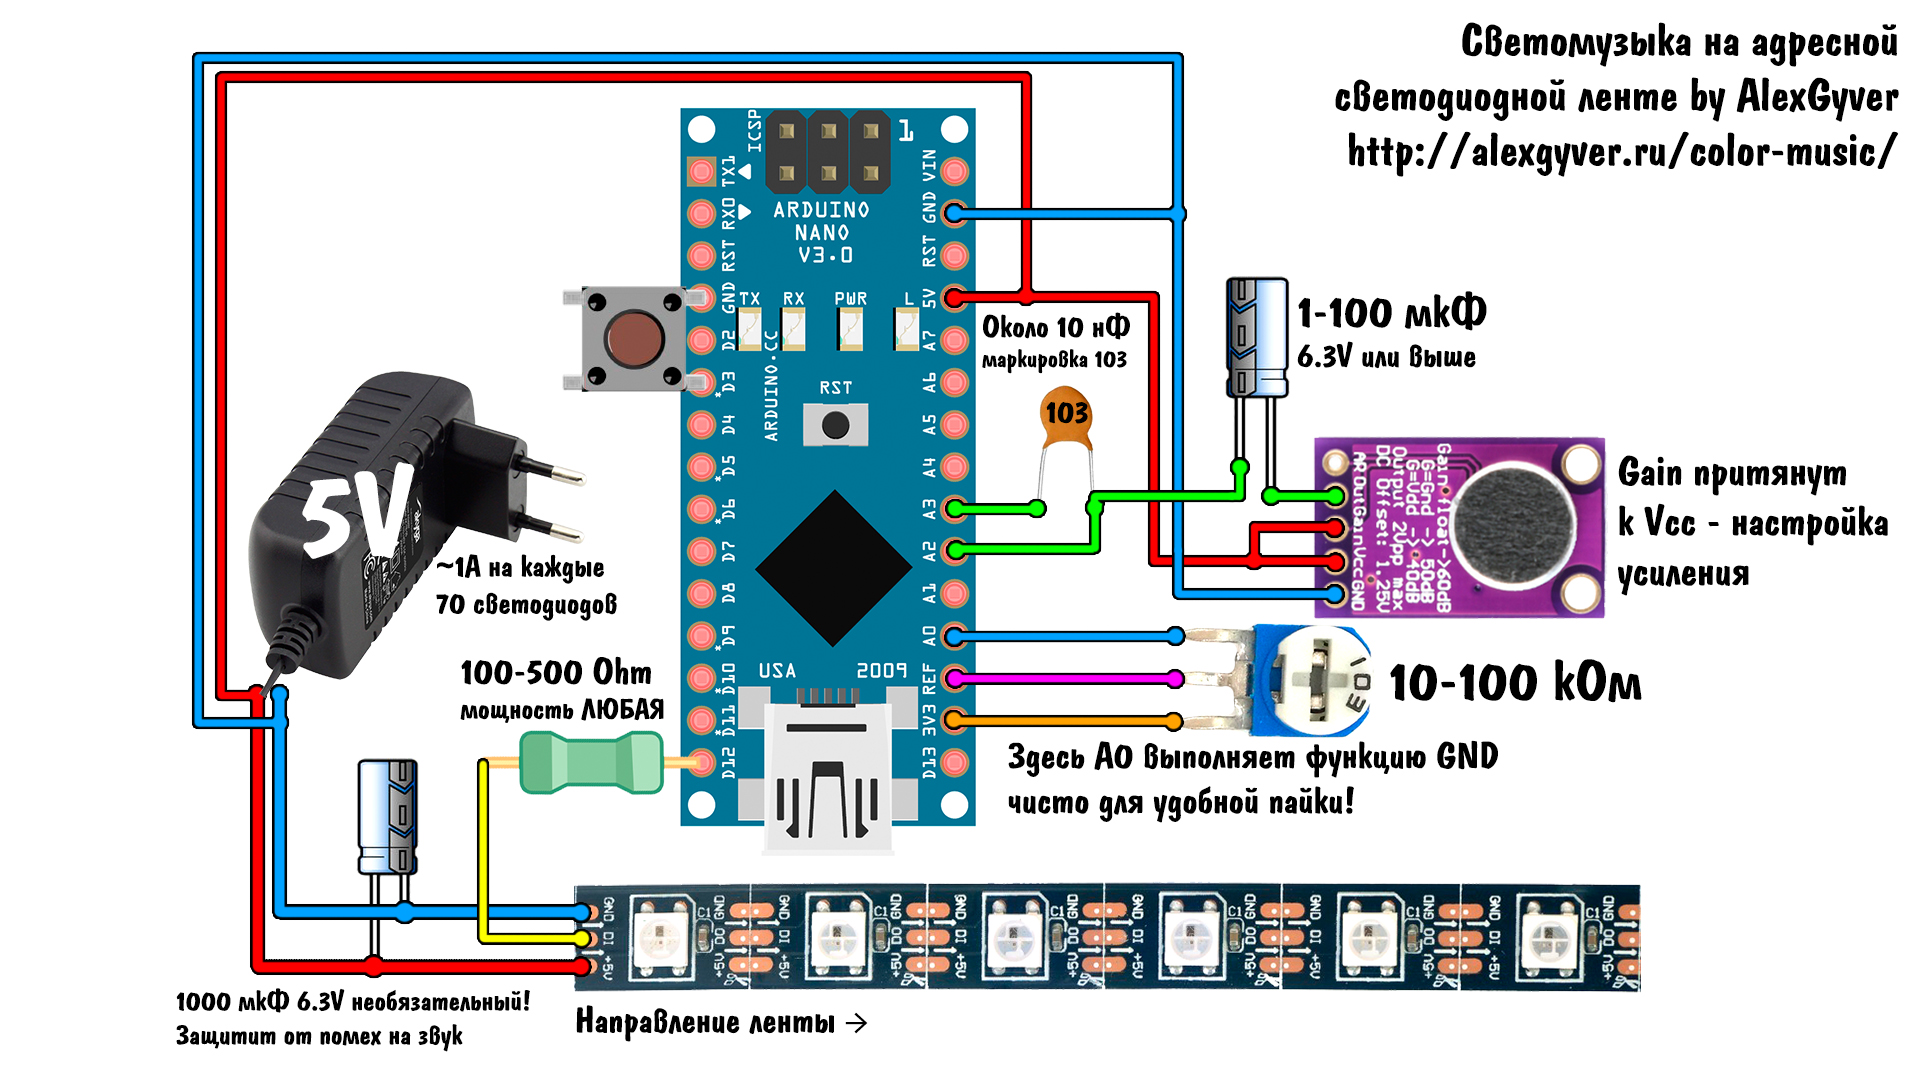
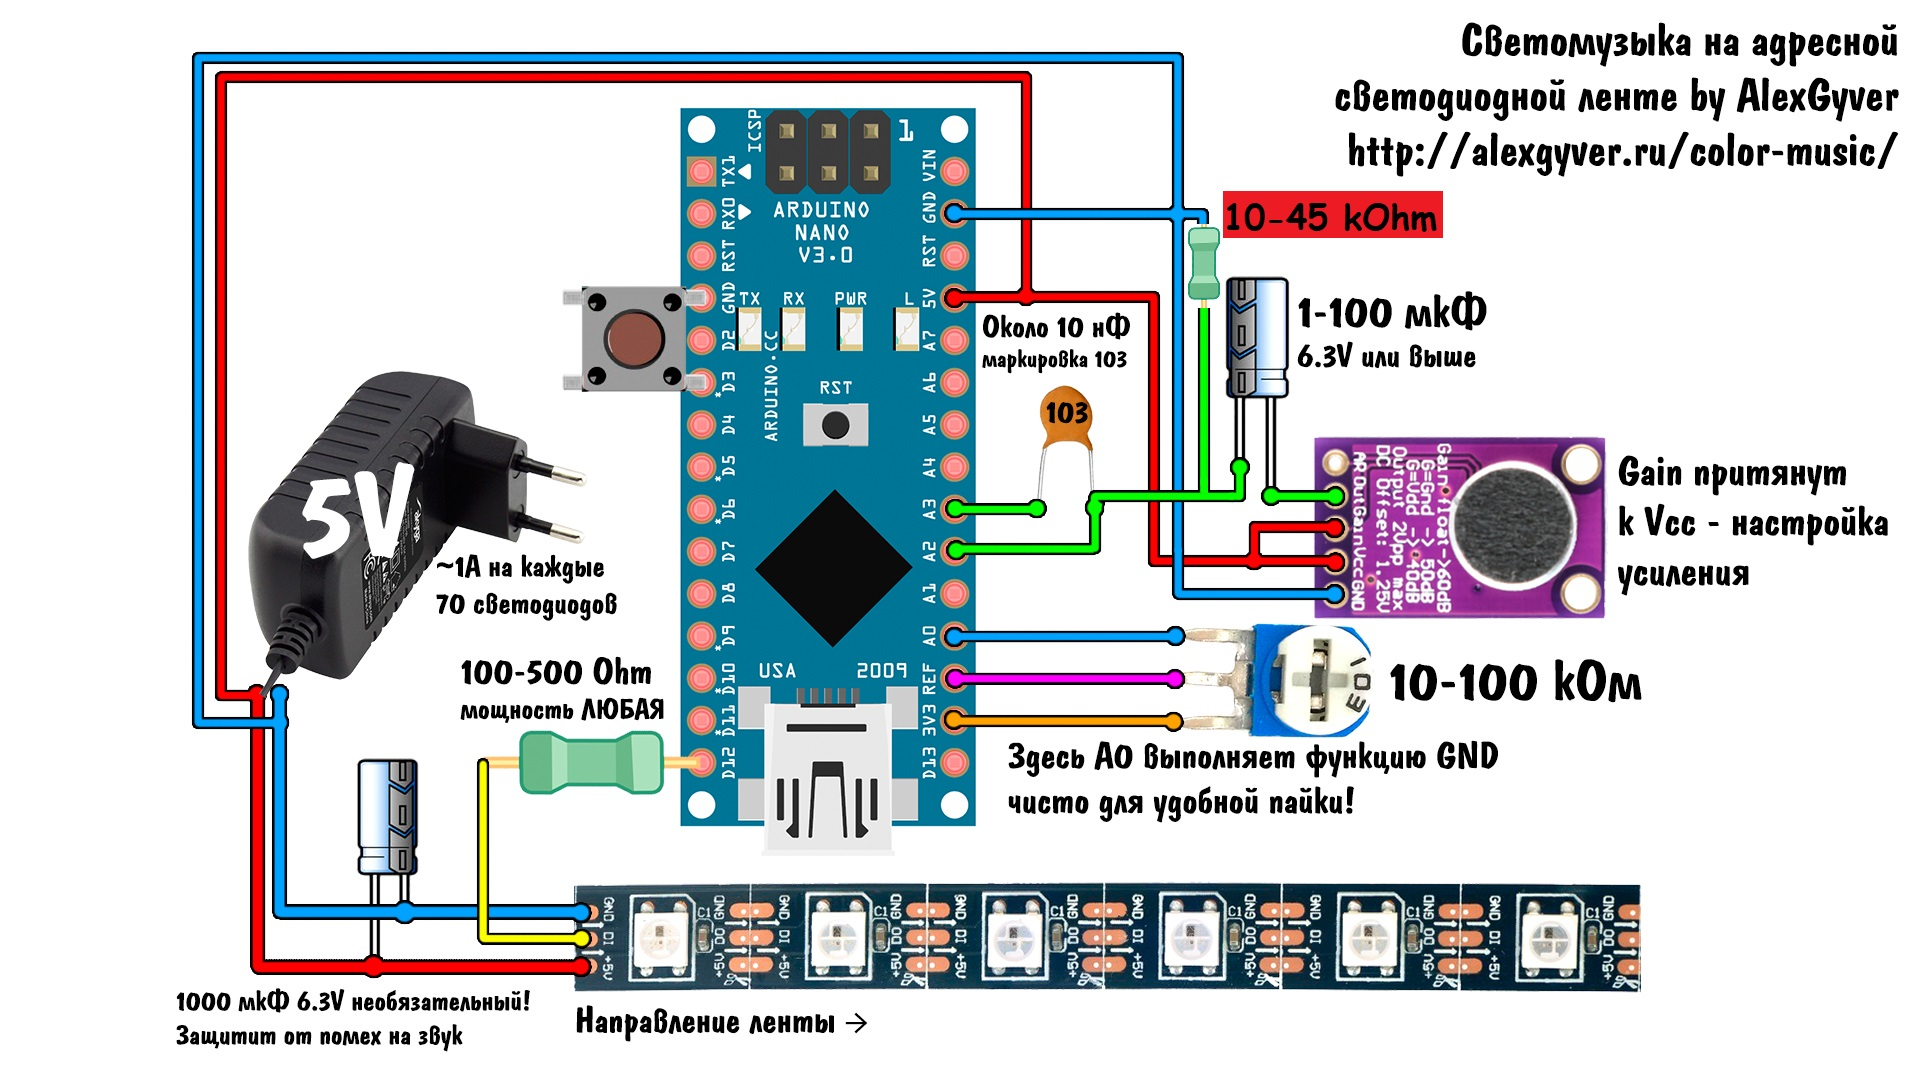
add info about fixing VU meter with resistor

diff --git a/README.md b/README.md
@@ -72,3 +72,6 @@ Because we don't have `+` and `-` buttons, our single button changes setting cyc
   * silence the music;
   * press the button five times;
   * the noise values will be written to the EEPROM and automatically read at every colormusic start up.
+
+## Problems
+[x] It is highly recommended to use 10kOhm - 45kOhm resistor between pin A2 and GND in schemes with microphone (see `schemes` folder).
